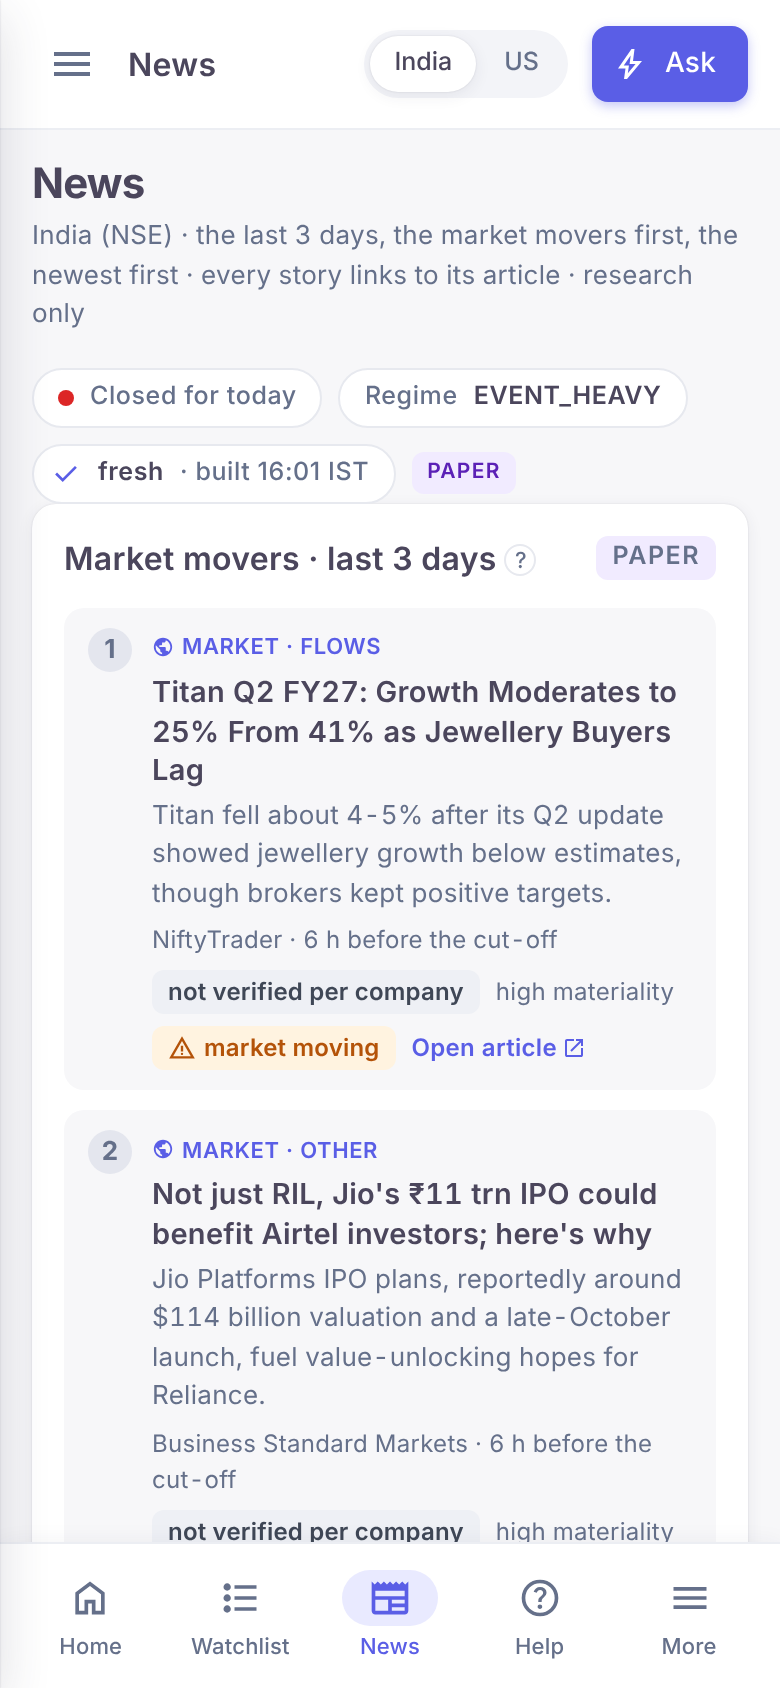
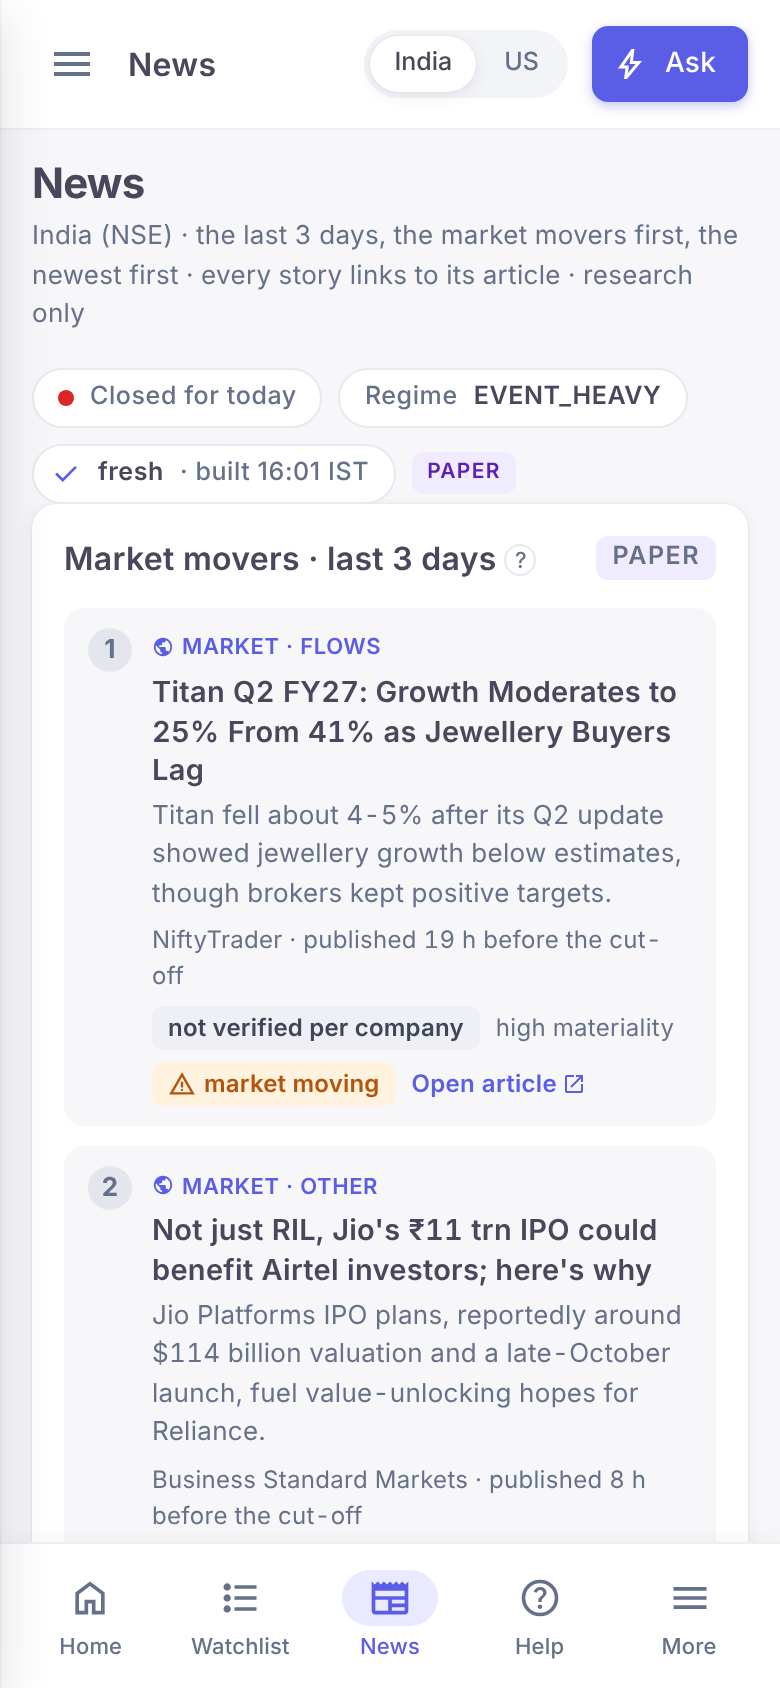
Design track: News mockup shows the outlet's publish time on every story (owner decision; the feed order stays latest stored first); rationale records the confirmed ranking and the at-most-10 band
Claude-Session: https://claude.ai/code/session_01RuLrYPoHyYoZ2LBEo834w9

Changed region(s): [[0.1846, 0.5545, 0.8615, 0.9242], [0.1231, 0.6469, 0.1538, 0.7085]]

diff --git a/design/mockups/09-news/page.html b/design/mockups/09-news/page.html
@@ -862,11 +862,11 @@ function itemBody(p, n, opts = {}) {
   const m = market, mkt = scopeOf(n) === 'market', kind = mkt && n.category && n.category !== 'company' && n.category !== 'general' ? n.category : (KIND[n.enrichment.event_type] || n.enrichment.event_type);
   const body = el('div', {class:'ni'});
   const head = el('div', {}, el('span', {class:'kind' + (mkt ? ' mkt' : ''), 'data-tip': mkt ? 'A market-wide story: no single company, it moves the whole market.' : `A company story (${n.tickers.join(', ')}).`}, icon(mkt ? 'ms-public' : 'ms-apartment'), mkt ? 'market · ' + kind : kind));
-  if (opts.time) head.append(el('span', {class:'muted', style:'font-size:12px'}, `${n.source} · ${fmtLocal(n.first_seen_at, m, true)}`));
+  if (opts.time) head.append(el('span', {class:'muted', style:'font-size:12px'}, `${n.source} · published ${fmtLocal(n.published_at, m, true)}`));
   body.append(head, el('h3', {}, el('a', {href: n.url, rel:'noopener', target:'_blank', 'data-tip': `Opens the article at ${n.source_domain} in a new tab. Stored here: the headline, its scores and status, never the text.`}, n.title)));
   if (n.summary) body.append(el('p', {class:'sum'}, n.summary));
   const meta = el('div', {class:'meta'});
-  if (!opts.time) meta.append(el('span', {}, `${n.source} · ${ago(p, n.first_seen_at)}`));
+  if (!opts.time) meta.append(el('span', {'data-tip': `Published by ${n.source} ${fmtLocal(n.published_at, m, true)}; first stored here ${fmtLocal(n.first_seen_at, m, true)}.`}, `${n.source} · published ${ago(p, n.published_at)}`));
   meta.append(n.status ? statusBadge(n.status) : el('span', {class:'mb-label neutral', 'data-tip':'Market-wide stories carry no verification status: verification is per company (DESIGN 3b).'}, 'not verified per company'), el('span', {'data-tip': 'The news analyst’s materiality: how much the story can move the price.'}, `${n.enrichment.materiality} materiality`));
   if (n.market_moving) meta.append(el('span', {class:'mb-label warn', 'data-tip':'The engine’s market-moving flag: high materiality and market-wide or a results item.'}, icon('ms-warning'), 'market moving'));
   if (n.enrichment.geopolitical) meta.append(el('span', {class:'mb-label neutral', 'data-tip':'The news analyst marked it geopolitical.'}, 'geopolitical'));
@@ -890,7 +890,7 @@ function moversCard(p) {
 function feedCard(p) {
   const m = market, card = el('section', {class:'card', 'aria-label':'All stories of the window'});
   const last24 = p.news.filter(n => hoursBefore(p, n.first_seen_at) < NEWS_RECENT_HOURS).length;
-  card.append(el('div', {class:'head'}, el('h2', {}, `Last ${p.window.days} days`, help(`Every story first seen in the ${p.window.days} days before the cut-off, newest first, ${NEWS_PAGE_SIZE} a page and at most ${p.window.max_items} in all (the owner's rule: a short trading window needs no older news). Older stories stay in the data; the Company page shows every stored story about a company. Filters: the last ${NEWS_RECENT_HOURS} hours, market-wide, the engine's market-moving flag, one company, or only stories that can carry a call (confirmed or corroborated).`)), el('span', {class:'end muted'}, `${p.news.length} stor${p.news.length === 1 ? 'y' : 'ies'} · ${last24} in the last ${NEWS_RECENT_HOURS} h`)));
+  card.append(el('div', {class:'head'}, el('h2', {}, `Last ${p.window.days} days`, help(`Every story first seen in the ${p.window.days} days before the cut-off, the latest stored first (the time shown is the outlet's publish time; the day groups follow the day the story was stored), ${NEWS_PAGE_SIZE} a page and at most ${p.window.max_items} in all (the owner's rule: a short trading window needs no older news). Older stories stay in the data; the Company page shows every stored story about a company. Filters: the last ${NEWS_RECENT_HOURS} hours, market-wide, the engine's market-moving flag, one company, or only stories that can carry a call (confirmed or corroborated).`)), el('span', {class:'end muted'}, `${p.news.length} stor${p.news.length === 1 ? 'y' : 'ies'} · ${last24} in the last ${NEWS_RECENT_HOURS} h`)));
   const bar = el('div', {class:'toolbar'});
   const chip = (key, label, tipText) => { const b = el('button', {type:'button', class:'md-chip filter', 'aria-pressed': String(filter === key && !ticker), 'data-tip': tipText}, label); b.addEventListener('click', () => { filter = key; ticker = null; pageNo = 1; render(); }); return b; };
   bar.append(chip('all', 'All', 'Every story of the window.'), chip('24h', `Last ${NEWS_RECENT_HOURS} h`, `First seen in the ${NEWS_RECENT_HOURS} hours before the cut-off.`), chip('market', 'Market-wide', 'Stories about no single company.'), chip('moving', 'Market moving', 'The engine’s flag: high materiality and market-wide or a results item.'), chip('carry', 'Can carry a call', 'Confirmed by a filing or corroborated by independent outlets: the only statuses that may be the main evidence of a call.'));
@@ -912,7 +912,7 @@ function feedCard(p) {
   for (const n of slice) {
     const dk = dayKey(n.first_seen_at, m);
     if (dk !== lastDay) { lastDay = dk; const count = items.filter(x => dayKey(x.first_seen_at, m) === dk).length; feed.append(el('div', {class:'day'}, el('b', {}, dk === sessionDay ? 'Today' : dk), ` · ${count} stor${count === 1 ? 'y' : 'ies'}`)); }
-    feed.append(el('div', {class:'row'}, el('span', {class:'tm', 'data-tip': `First stored ${fmtLocal(n.first_seen_at, m, true)}; the outlet published it ${fmtLocal(n.published_at, m, true)}.`}, fmtLocal(n.first_seen_at, m, false)), sentSquare(n.enrichment.sentiment), itemBody(p, n)));
+    feed.append(el('div', {class:'row'}, el('span', {class:'tm', 'data-tip': `Published ${fmtLocal(n.published_at, m, true)}; first stored here ${fmtLocal(n.first_seen_at, m, true)} (the order of the feed).`}, fmtLocal(n.published_at, m, dayKey(n.published_at, m) !== dayKey(n.first_seen_at, m))), sentSquare(n.enrichment.sentiment), itemBody(p, n)));
   }
   card.append(feed);
   const pager = el('div', {class:'pager'}); pager.append(el('span', {}, `Page ${pageNo} of ${pages} · ${items.length} stor${items.length === 1 ? 'y' : 'ies'}, ${NEWS_PAGE_SIZE} a page`));

diff --git a/design/mockups/09-news/template.html b/design/mockups/09-news/template.html
@@ -102,11 +102,11 @@ function itemBody(p, n, opts = {}) {
   const m = market, mkt = scopeOf(n) === 'market', kind = mkt && n.category && n.category !== 'company' && n.category !== 'general' ? n.category : (KIND[n.enrichment.event_type] || n.enrichment.event_type);
   const body = el('div', {class:'ni'});
   const head = el('div', {}, el('span', {class:'kind' + (mkt ? ' mkt' : ''), 'data-tip': mkt ? 'A market-wide story: no single company, it moves the whole market.' : `A company story (${n.tickers.join(', ')}).`}, icon(mkt ? 'ms-public' : 'ms-apartment'), mkt ? 'market · ' + kind : kind));
-  if (opts.time) head.append(el('span', {class:'muted', style:'font-size:12px'}, `${n.source} · ${fmtLocal(n.first_seen_at, m, true)}`));
+  if (opts.time) head.append(el('span', {class:'muted', style:'font-size:12px'}, `${n.source} · published ${fmtLocal(n.published_at, m, true)}`));
   body.append(head, el('h3', {}, el('a', {href: n.url, rel:'noopener', target:'_blank', 'data-tip': `Opens the article at ${n.source_domain} in a new tab. Stored here: the headline, its scores and status, never the text.`}, n.title)));
   if (n.summary) body.append(el('p', {class:'sum'}, n.summary));
   const meta = el('div', {class:'meta'});
-  if (!opts.time) meta.append(el('span', {}, `${n.source} · ${ago(p, n.first_seen_at)}`));
+  if (!opts.time) meta.append(el('span', {'data-tip': `Published by ${n.source} ${fmtLocal(n.published_at, m, true)}; first stored here ${fmtLocal(n.first_seen_at, m, true)}.`}, `${n.source} · published ${ago(p, n.published_at)}`));
   meta.append(n.status ? statusBadge(n.status) : el('span', {class:'mb-label neutral', 'data-tip':'Market-wide stories carry no verification status: verification is per company (DESIGN 3b).'}, 'not verified per company'), el('span', {'data-tip': 'The news analyst’s materiality: how much the story can move the price.'}, `${n.enrichment.materiality} materiality`));
   if (n.market_moving) meta.append(el('span', {class:'mb-label warn', 'data-tip':'The engine’s market-moving flag: high materiality and market-wide or a results item.'}, icon('ms-warning'), 'market moving'));
   if (n.enrichment.geopolitical) meta.append(el('span', {class:'mb-label neutral', 'data-tip':'The news analyst marked it geopolitical.'}, 'geopolitical'));
@@ -130,7 +130,7 @@ function moversCard(p) {
 function feedCard(p) {
   const m = market, card = el('section', {class:'card', 'aria-label':'All stories of the window'});
   const last24 = p.news.filter(n => hoursBefore(p, n.first_seen_at) < NEWS_RECENT_HOURS).length;
-  card.append(el('div', {class:'head'}, el('h2', {}, `Last ${p.window.days} days`, help(`Every story first seen in the ${p.window.days} days before the cut-off, newest first, ${NEWS_PAGE_SIZE} a page and at most ${p.window.max_items} in all (the owner's rule: a short trading window needs no older news). Older stories stay in the data; the Company page shows every stored story about a company. Filters: the last ${NEWS_RECENT_HOURS} hours, market-wide, the engine's market-moving flag, one company, or only stories that can carry a call (confirmed or corroborated).`)), el('span', {class:'end muted'}, `${p.news.length} stor${p.news.length === 1 ? 'y' : 'ies'} · ${last24} in the last ${NEWS_RECENT_HOURS} h`)));
+  card.append(el('div', {class:'head'}, el('h2', {}, `Last ${p.window.days} days`, help(`Every story first seen in the ${p.window.days} days before the cut-off, the latest stored first (the time shown is the outlet's publish time; the day groups follow the day the story was stored), ${NEWS_PAGE_SIZE} a page and at most ${p.window.max_items} in all (the owner's rule: a short trading window needs no older news). Older stories stay in the data; the Company page shows every stored story about a company. Filters: the last ${NEWS_RECENT_HOURS} hours, market-wide, the engine's market-moving flag, one company, or only stories that can carry a call (confirmed or corroborated).`)), el('span', {class:'end muted'}, `${p.news.length} stor${p.news.length === 1 ? 'y' : 'ies'} · ${last24} in the last ${NEWS_RECENT_HOURS} h`)));
   const bar = el('div', {class:'toolbar'});
   const chip = (key, label, tipText) => { const b = el('button', {type:'button', class:'md-chip filter', 'aria-pressed': String(filter === key && !ticker), 'data-tip': tipText}, label); b.addEventListener('click', () => { filter = key; ticker = null; pageNo = 1; render(); }); return b; };
   bar.append(chip('all', 'All', 'Every story of the window.'), chip('24h', `Last ${NEWS_RECENT_HOURS} h`, `First seen in the ${NEWS_RECENT_HOURS} hours before the cut-off.`), chip('market', 'Market-wide', 'Stories about no single company.'), chip('moving', 'Market moving', 'The engine’s flag: high materiality and market-wide or a results item.'), chip('carry', 'Can carry a call', 'Confirmed by a filing or corroborated by independent outlets: the only statuses that may be the main evidence of a call.'));
@@ -152,7 +152,7 @@ function feedCard(p) {
   for (const n of slice) {
     const dk = dayKey(n.first_seen_at, m);
     if (dk !== lastDay) { lastDay = dk; const count = items.filter(x => dayKey(x.first_seen_at, m) === dk).length; feed.append(el('div', {class:'day'}, el('b', {}, dk === sessionDay ? 'Today' : dk), ` · ${count} stor${count === 1 ? 'y' : 'ies'}`)); }
-    feed.append(el('div', {class:'row'}, el('span', {class:'tm', 'data-tip': `First stored ${fmtLocal(n.first_seen_at, m, true)}; the outlet published it ${fmtLocal(n.published_at, m, true)}.`}, fmtLocal(n.first_seen_at, m, false)), sentSquare(n.enrichment.sentiment), itemBody(p, n)));
+    feed.append(el('div', {class:'row'}, el('span', {class:'tm', 'data-tip': `Published ${fmtLocal(n.published_at, m, true)}; first stored here ${fmtLocal(n.first_seen_at, m, true)} (the order of the feed).`}, fmtLocal(n.published_at, m, dayKey(n.published_at, m) !== dayKey(n.first_seen_at, m))), sentSquare(n.enrichment.sentiment), itemBody(p, n)));
   }
   card.append(feed);
   const pager = el('div', {class:'pager'}); pager.append(el('span', {}, `Page ${pageNo} of ${pages} · ${items.length} stor${items.length === 1 ? 'y' : 'ies'}, ${NEWS_PAGE_SIZE} a page`));

diff --git a/design/README.md b/design/README.md
@@ -59,7 +59,7 @@ The owner delegated the remaining pages ("go with your recommendation, notify th
 | 6 Rule vs AI | Opens with a two-sided scorecard and a one-word verdict with the luck test drawn. Matches per company-day and pick rule, a draw when both families made the same trade. The weekly review card reads only reviews written by the cut-off (the W40 ones). The per-company comparison is summed from the trades (no per-company head-to-head scoreboard row exists; W1 answered with heatmap cells at market cost). |
 | 7 Paper portfolios | Two family boxes with the pick-rule portfolios inside, not a four-row table. Open trades grouped by strategy with family and view filters, reusing Home's row design. The euro view as four tiles with the formula in tooltips and the "fee provisional, verify" note. Adding an own paper trade is a dialog recording a pending request with the WS4 price rule. |
 | 8 Track record | The signal model's skill verdict leads as a band with the review it comes from. Every hit rate carries its Wilson interval as a bar with the always-up tick. Calibration is a chart with the diagonal plus the bands' table. Scoring bases one at a time, never pooled; legacy windows tagged. Empty states say what is missing (no range scored, no replay, the weekly series not in the read model: a request to B4). |
-| 9 News | Built on the owner's rules of 2026-10-08. The movers are a ranked band above the feed (the engine's market-moving flag first, then market-wide, results, materiality, newest; a headline stored twice shows once); the feed is one list grouped by day with filter chips and a pager; the rail holds the week's calendar and the companies in the news; market-wide stories carry "not verified per company" because verification is per company. Home's news card became the window's top 5 movers with a link to the News page. |
+| 9 News | Built on the owner's rules of 2026-10-08. The movers are a ranked band above the feed (the engine's market-moving flag first, then market-wide, results, materiality, newest; a headline stored twice shows once); the feed is one list grouped by day with filter chips and a pager; the rail holds the week's calendar and the companies in the news; market-wide stories carry "not verified per company" because verification is per company. Home's news card became the window's top 5 movers with a link to the News page. Confirmed by the owner after the first review: the ranking stays, at most 10 in the band, the outlet's publish time on every story. |
 | 10 Companies | Active and inactive companies as two tables. Every write is a dialog ending in a recorded pending request; delete behind a typed confirmation, dashboard-only (F8.5); the add flow shows the F8.7 summary step. A company deleted later is masked everywhere, command keys and record ids included (decision 12). On phones the row actions collapse into one Manage button; deactivate / reactivate take an optional reason. |
 | 11 Assistant | A chat with the sources under each answer and a records panel beside it. Every answer carries a visible state (answered / not in the data / declined). The conversation is filtered on the asking time, as every page filters on a record's write time (W1 re-dated the examples before the cut-off at the track's request). The budget is the spec's caps with an honest "spend not in the example data" note. Long record ids wrap in full. |
 | 12 Help | One scrolling page with an anchor chip row, not tabs. The strategy list, the go-live checklist and the agreement example come from the catalogue. Sample visual parts are drawn with the pages' own helpers and labelled "sample". The judge made the track correct several system statements (D = the entry session; only freely accessible vetted pages are read; which pages carry the signals band; what is hand-entered). |

diff --git a/design/mockups/09-news/rationale.md b/design/mockups/09-news/rationale.md
@@ -31,7 +31,7 @@ from any site, only the conventions.
 1. **Page head** (the shell's chips).
 2. **Market movers · last 3 days**: up to 10 ranked cards in two columns: rank, the kind of story (market-wide
    stories carry a globe and the word "market"), the headline as the link, the summary line when the data has one,
-   the source and "n hours before the cut-off", the status badge, the materiality, how many outlets carry it, the
+   the source and "published n hours before the cut-off", the status badge, the materiality, how many outlets carry it, the
    companies as links to their pages, and "Open article". Ranking: the engine's market-moving flag first (W1's rule:
    high materiality and market-wide or a results item, shown as an amber "market moving" label), then market-wide
    stories, the watchlist's results and high materiality, newest first within each rank; the same headline stored
@@ -39,8 +39,8 @@ from any site, only the conventions.
    verification is per company. An honest empty state when the window has none.
 3. **Last 3 days** (the feed): filter chips (All, Last 24 h, Market-wide, Market moving, Can carry a call) and a
    company select; a note when most stories have no summary line;
-   stories grouped by the local day with a sticky header ("Today · n stories"), each row with the local time (its
-   tooltip has the first-stored and published times), the sentiment arrow, the same item body as the band; a pager
+   stories grouped by the local day they were stored, with a sticky header ("Today · n stories"), each row with the
+   outlet's publish time (with its date when it differs from the stored day; the tooltip has both times), the sentiment arrow, the same item body as the band; a pager
    (10 a page, at most 50 in the window) that scrolls the feed into view.
 4. **Rail: Coming up · 7 days**: the market's scheduled events and the active companies' results and ex-dividend
    dates from the session being predicted, a date tile each, "major" (widens every range) in amber, "widens its
@@ -89,13 +89,16 @@ now explains its empty state and a note says when stories show the headline alon
 0.05 sentiment band were typed in the template (now the shell's `NEWS_RECENT_HOURS` and `SENTIMENT_FLAT_BAND`, the
 latter also used by the shell's sentiment arrow).
 
-## Decisions taken for the owner (reported to the orchestrator; to confirm)
+## Decisions taken for the owner (reported to the orchestrator; confirmed in part, see the last bullet)
 - The movers are a ranked band of cards above the feed, not a separate tab, so the first screen answers "what
   moves the market" and the feed is one scroll away.
 - The feed is grouped by day with sticky headers and filtered by chips rather than split into "today" and "older"
   cards: one list, newest first, the owner's filters on top.
 - The rail holds the calendar (the week ahead) and the news per company; "big news" lives in the band, so the rail
   does not repeat it.
+- Confirmed by the owner (2026-10-08, after the first review): the ranking rule stays, the band shows at most 10 (not
+  always 10), and every story shows the outlet's publish time rather than the collection time (the order of the
+  feed stays "latest stored first", the owner's earlier rule).
 - Market-wide stories are the catalogue's `scope` market (the tagger found no primary watchlist company); each
   market's page shows the stories its own feeds carried, so a Fed story appears in India only when India's feeds had
   it.

diff --git a/design/mockups/09-news/notes.md b/design/mockups/09-news/notes.md
@@ -24,8 +24,9 @@ the filters (last 24 h = first seen in the `NEWS_RECENT_HOURS` before the cut-of
 the flag; can carry a call = confirmed or corroborated; one company), the kind word (a market-wide story's `category`
 when it is not `company` or `general`, else the event type in words), the "not verified per company" badge for the
 empty status of a market-wide story, the day groups (the
-local date of `first_seen_at`), the pagination (`NEWS_PAGE_SIZE` a page), "n h/days before the cut-off" (from
-`first_seen_at` against the cut-off, never the viewer's clock), the per-company counts and the sentiment mix (positive
+local date of `first_seen_at`; the time shown on a row and in the band is the outlet's `published_at`, with the
+stored time in the tooltip, the owner's decision of 2026-10-08), the pagination (`NEWS_PAGE_SIZE` a page), "n h/days before the cut-off" (from
+`published_at` against the cut-off, never the viewer's clock), the per-company counts and the sentiment mix (positive
 above `SENTIMENT_FLAT_BAND`, negative below its negative), and a note under the filters when more than half of the
 stories have no summary line. The page never shows the stored text: the headline links to the outlet's article (`url`) and the `summary` is the
 catalogue's one-or-two-line summary (`summary_source` article or analyst; empty for most US items, whose analyst
